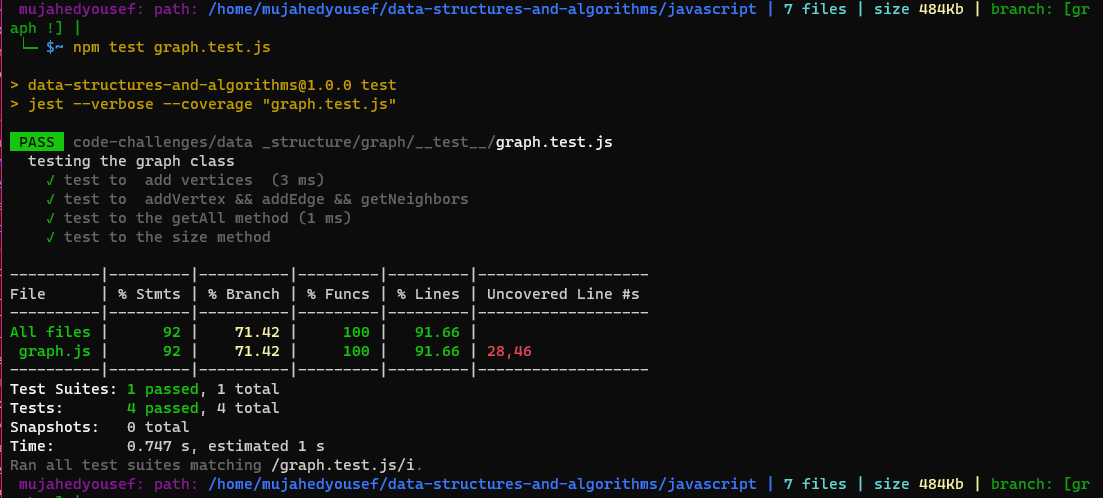
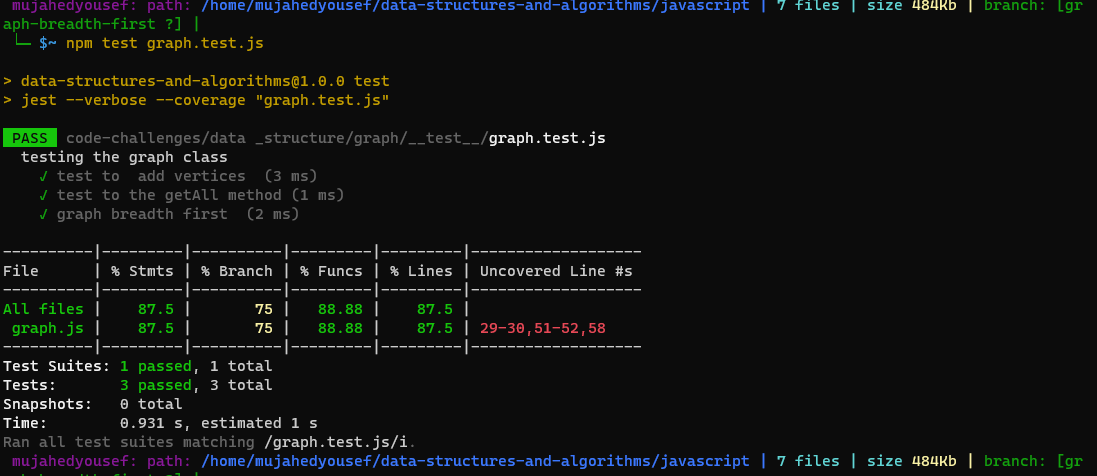
complete graph breadth first

diff --git a/javascript/code-challenges/data _structure/graph/breadthFirst.md b/javascript/code-challenges/data _structure/graph/breadthFirst.md
@@ -1,0 +1,21 @@
+# Challenge Summary
+
+* Writing the following method for the Graph class:
+
+1. breadth first
+1. Arguments: Node
+1. Return: A collection of nodes in the order they were visited.
+1. Display the collection.
+
+## Whiteboard Process
+![whiteboard](./whiteboardBre.PNG)
+## Approach & Efficiency
+
+* Time Complexity : O(n^2)  
+  * using two loops.
+
+* Time Space :O(n)
+
+## Solution
+
+![test](./test.PNG)
